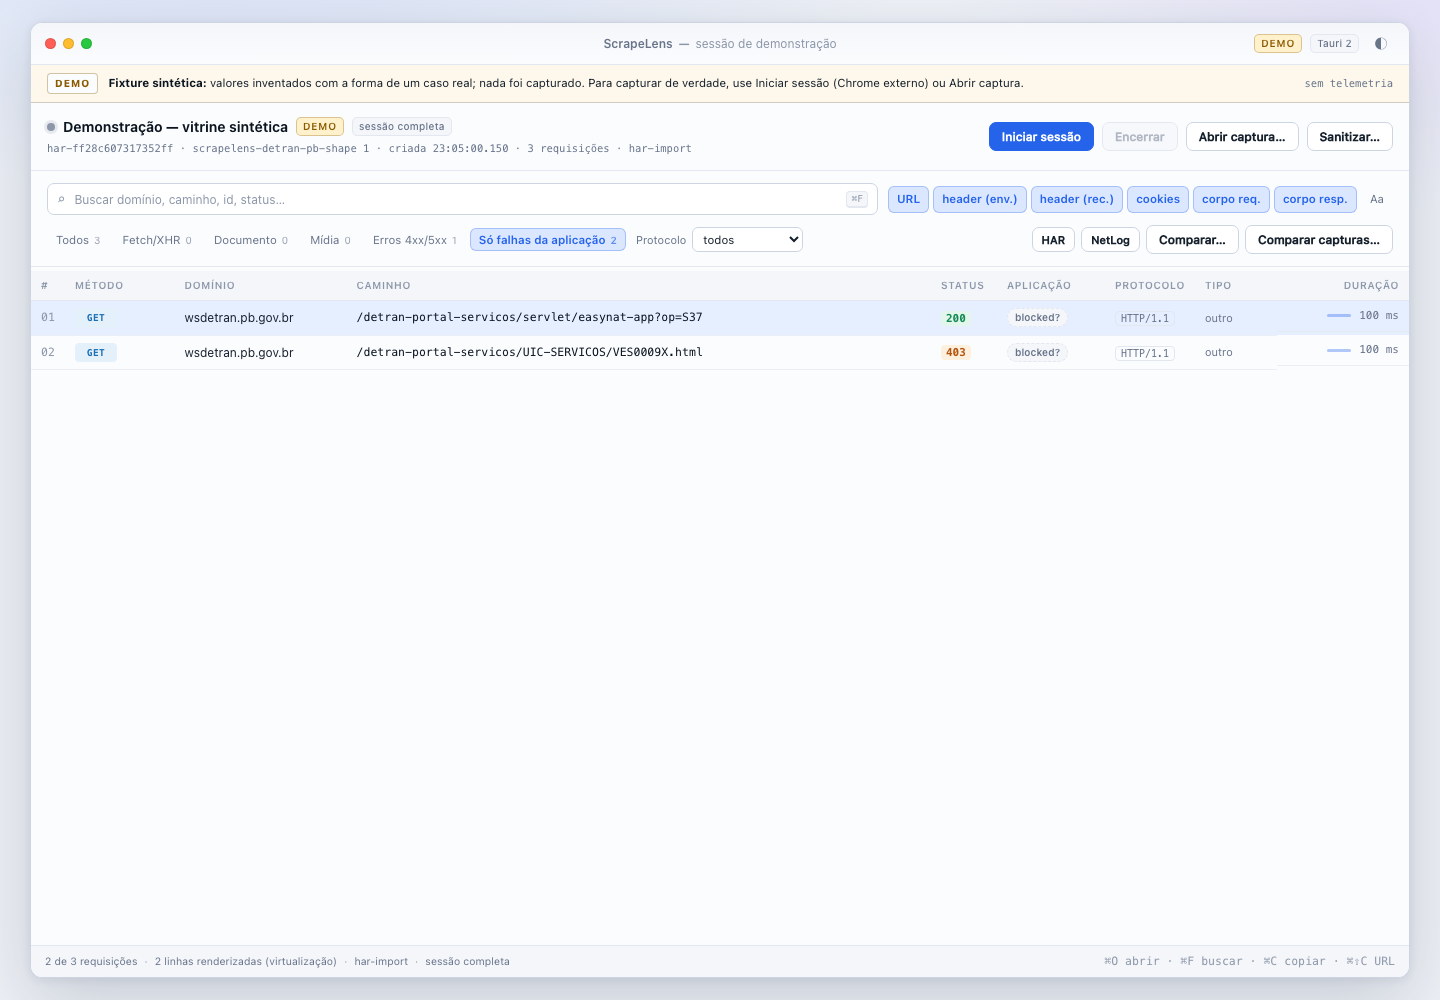
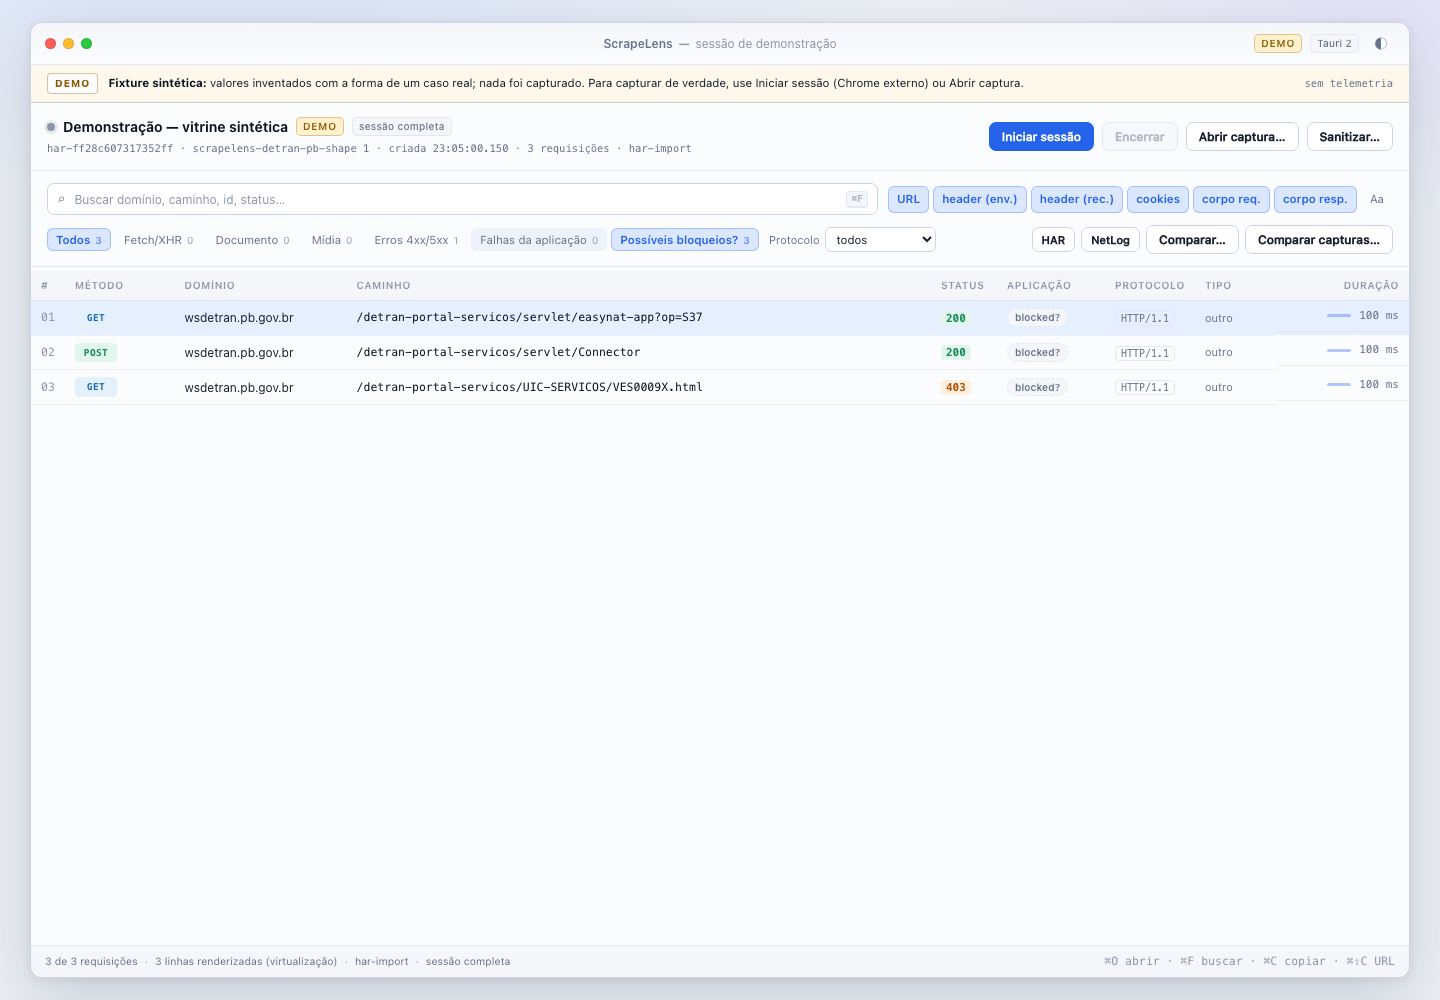
fix(app): separate the Application failures (app-error) and Possible blocks (blocked?) filters

diff --git a/app/src/App.tsx b/app/src/App.tsx
@@ -18,7 +18,7 @@ import { matchRanges } from "./highlight";
 import { classifyTransforms } from "./transforms";
 import { OriginsTab } from "./Origins";
 import { CaptureCompareView } from "./CaptureCompare";
-import { AppSuccessSection, VerdictChip, isAppFailure, useAssess, type OutcomeMap } from "./assess";
+import { AppSuccessSection, VerdictChip, isAppFailure, isPossibleBlock, useAssess, type OutcomeMap } from "./assess";
 import type { CompareSummary } from "./flow";
 import { diffCookies, diffHeaders, kindLabel, normalizeHeaders } from "./diff";
 import { adaptSession, type AdaptedSession } from "./v1/adapter";
@@ -46,7 +46,7 @@ type DetailTab =
   | "redirects"
   | "attempts"
   | "event";
-type TypeFilter = "all" | "fetch" | "document" | "media" | "error" | "appfail";
+type TypeFilter = "all" | "fetch" | "document" | "media" | "error";
 
 const params = new URLSearchParams(window.location.search);
 const storedTheme = typeof localStorage !== "undefined" ? localStorage.getItem("scrapelens.theme") : null;
@@ -1384,6 +1384,8 @@ export default function App() {
   const [query, setQuery] = useState(params.get("q") ?? "");
   const initialFilter = (params.get("filter") as TypeFilter | null) ?? "all";
   const [typeFilter, setTypeFilter] = useState<TypeFilter>(initialFilter);
+  const [failFilter, setFailFilter] = useState(false);
+  const [blockFilter, setBlockFilter] = useState(false);
   const [protocol, setProtocol] = useState<"all" | Protocol>("all");
   const [selectedId, setSelectedId] = useState(params.get("id") ?? "req-0004");
   const [tab, setTab] = useState<DetailTab>(initialTab);
@@ -1456,6 +1458,8 @@ export default function App() {
     setView("session");
     setQuery("");
     setTypeFilter("all");
+    setFailFilter(false);
+    setBlockFilter(false);
     setProtocol("all");
     setSelectedId(payload.session.requests[0]?.id ?? "");
     setIsLargeDemo(false);
@@ -1711,7 +1715,10 @@ export default function App() {
       if (typeFilter === "document" && r.type !== "document") return false;
       if (typeFilter === "media" && !(r.type === "image" || r.type === "font")) return false;
       if (typeFilter === "error" && r.status < 400) return false;
-      if (typeFilter === "appfail" && !isAppFailure(outcomes.get(r.id))) return false;
+      if (failFilter || blockFilter) {
+        const o = outcomes.get(r.id);
+        if (!((failFilter && isAppFailure(o)) || (blockFilter && isPossibleBlock(o)))) return false;
+      }
       if (protocol !== "all" && r.protocol !== protocol) return false;
       if (!q) return true;
       if (payloadSearch) {
@@ -1730,7 +1737,7 @@ export default function App() {
         String(r.status).includes(q)
       );
     });
-  }, [requests, query, typeFilter, protocol, payloadSearch, matchesById, outcomes]);
+  }, [requests, query, typeFilter, failFilter, blockFilter, protocol, payloadSearch, matchesById, outcomes]);
 
   const errors = requests.filter((r) => r.status >= 400).length;
   const counts = {
@@ -1739,8 +1746,9 @@ export default function App() {
     document: requests.filter((r) => r.type === "document").length,
     media: requests.filter((r) => r.type === "image" || r.type === "font").length,
     error: errors,
-    appfail: requests.filter((r) => isAppFailure(outcomes.get(r.id))).length,
   };
+  const failCount = requests.filter((r) => isAppFailure(outcomes.get(r.id))).length;
+  const blockCount = requests.filter((r) => isPossibleBlock(outcomes.get(r.id))).length;
 
   const ROW_HEIGHT = 34;
   const OVERSCAN = 6;
@@ -1760,7 +1768,7 @@ export default function App() {
   useEffect(() => {
     setScrollTop(0);
     if (tableRef.current) tableRef.current.scrollTop = 0;
-  }, [query, typeFilter, protocol]);
+  }, [query, typeFilter, failFilter, blockFilter, protocol]);
 
   const startIndex = Math.max(0, Math.floor(scrollTop / ROW_HEIGHT) - OVERSCAN);
   const endIndex = Math.min(filtered.length, Math.ceil((scrollTop + viewportH) / ROW_HEIGHT) + OVERSCAN);
@@ -2027,7 +2035,6 @@ export default function App() {
                     ["document", "Documento"],
                     ["media", "Mídia"],
                     ["error", "Erros 4xx/5xx"],
-                    ["appfail", "Só falhas da aplicação"],
                   ] as [TypeFilter, string][]
                 ).map(([id, label]) => (
                   <button
@@ -2039,6 +2046,22 @@ export default function App() {
                     <span className="count">{counts[id]}</span>
                   </button>
                 ))}
+                <button
+                  className={failFilter ? "chip-filter active" : "chip-filter"}
+                  onClick={() => setFailFilter((v) => !v)}
+                  title="Respostas com falha da aplicação afirmada (app-error), mesmo com HTTP 200"
+                >
+                  Falhas da aplicação
+                  <span className="count">{failCount}</span>
+                </button>
+                <button
+                  className={blockFilter ? "chip-filter active" : "chip-filter"}
+                  onClick={() => setBlockFilter((v) => !v)}
+                  title="Possíveis bloqueios (blocked?): evidência, não confirmação"
+                >
+                  Possíveis bloqueios?
+                  <span className="count">{blockCount}</span>
+                </button>
               </div>
               <label className="proto-select">
                 <span>Protocolo</span>
@@ -2175,7 +2198,7 @@ export default function App() {
                       <td colSpan={9}>
                         <div className="empty">
                           Nenhuma requisição corresponde a “{query}” com os filtros atuais.
-                          <button className="link" onClick={() => { setQuery(""); setTypeFilter("all"); setProtocol("all"); }}>
+                          <button className="link" onClick={() => { setQuery(""); setTypeFilter("all"); setFailFilter(false); setBlockFilter(false); setProtocol("all"); }}>
                             Limpar busca e filtros
                           </button>
                         </div>

diff --git a/app/scripts/adapter-minimal.test.ts b/app/scripts/adapter-minimal.test.ts
@@ -175,10 +175,15 @@ const withInit = structuredClone(minimal) as any;
 withInit.requests[0].attempts = [{ id: "a", logicalId: "r", index: 0, url: "u", method: "GET", protocol: "h1", initiator: { kind: "parser", url: "https://x.invalid/p" } }];
 assert.equal(adaptSession(withInit).session.requests[0].initiator, "parser · https://x.invalid/p");
 assert.equal(adaptSession(minimal).session.requests[0].initiator, undefined);
-import { isAppFailure, verdictCounts, VERDICT_KINDS, type ResponseOutcome } from "../src/assess";
+import { isAppFailure, isPossibleBlock, verdictCounts, VERDICT_KINDS, type ResponseOutcome } from "../src/assess";
 const oc = (verdictKind: ResponseOutcome["verdictKind"], httpOk = true) => ({ requestId: "r", method: "POST", url: "u", status: 200, httpOk, appSignals: [], verdict: verdictKind, verdictKind, missingFields: [] }) as ResponseOutcome;
 assert.equal(isAppFailure(oc("app-error")), true);
-assert.equal(isAppFailure(oc("blocked")), true); // 200 bloqueado fica visível no filtro
+assert.equal(isAppFailure(oc("blocked")), false); // blocked? não é falha afirmada
+assert.equal(isPossibleBlock(oc("blocked")), true);
+assert.equal(isPossibleBlock(oc("app-error")), false);
+assert.equal(isPossibleBlock(oc("indeterminado")), false);
+assert.equal(isPossibleBlock(oc("not-assessed")), false);
+assert.equal(isPossibleBlock(undefined), false);
 assert.equal(isAppFailure(oc("indeterminado")), false);
 assert.equal(isAppFailure(oc("app-ok")), false);
 assert.equal(isAppFailure(undefined), false);

diff --git a/app/src/assess.tsx b/app/src/assess.tsx
@@ -64,9 +64,11 @@ const CLASS: Record<VerdictKind, string> = {
   "not-assessed": "tag dim",
 };
 
-/** Falha da aplicação = app-error ou blocked? (HTTP pode ter sido 200). */
-export const isAppFailure = (o: ResponseOutcome | undefined) =>
-  o?.verdictKind === "app-error" || o?.verdictKind === "blocked";
+/** Falha da aplicação = app-error (afirmado; HTTP pode ter sido 200). */
+export const isAppFailure = (o: ResponseOutcome | undefined) => o?.verdictKind === "app-error";
+
+/** Possível bloqueio = blocked? (não afirmado). */
+export const isPossibleBlock = (o: ResponseOutcome | undefined) => o?.verdictKind === "blocked";
 
 export function VerdictChip({ outcome }: { outcome: ResponseOutcome | undefined }) {
   if (!outcome) return <span className="dim">—</span>;

diff --git a/src-tauri/EMPACOTAMENTO.md b/src-tauri/EMPACOTAMENTO.md
@@ -48,13 +48,13 @@ Ferramentas usadas: rustc 1.98.1, Node 26.8.1, macOS 26.5.2 (arm64).
 | Arquitetura | `Mach-O 64-bit executable arm64`, thin (sem universal binary) |
 | Tamanho do bundle | 15.768 KiB (~15,4 MiB, `du -sk`) |
 | Tamanho do executável | 15.392.688 bytes |
[2 lines of base64/hex data omitted]
 | Identificador | `app.scrapelens.desktop` |
 | Assinatura | ad-hoc (`flags=0x2(adhoc)`, `TeamIdentifier=not set`) |
 | `codesign --verify --deep --strict` | exit 0 (valid on disk, satisfaz o Designated Requirement) |
 | `spctl -a` | rejeitado — esperado: sem Developer ID e sem notarização |
 
-Rebuild 7b-2 (`counts` do assess com `VerdictKind::count_key()`, chaves kebab-case iguais ao `verdictKind`; hash anterior `83d67718…`). Antes: rebuild do ajuste 7b (verdict `not-assessed` neutro; hash anterior `0f6d04bf…`). Antes: rebuild da onda 7b (comando `assess_session`, coluna/filtro/aba "Aplicação", veredito na cadeia e no compare; hash anterior `4f7ca2aa…`). Antes: rebuild com frames auxiliares e iniciador (hash anterior `1697321d…`). Antes: rebuild da onda 6b (controle HTML, contexto estático, páginas de contexto, avisos de HAR sem cookies, compare por rodadas com opções, sanitização de negócio; hash anterior `f777988f…`). Antes: rebuild da dica de reordenação ligada a `SessionComparison.reordered` (hash anterior `21824159…`). Antes: rebuild do ajuste de layout do compare (chips quebram linha; dica de reordenação opcional); hash anterior `ac7213b2…`. Antes: rebuild com os rótulos do core (possível origem) e fixtures regeneradas; hash anterior `31ec27c3…`. Antes: rebuild das correções da revisão da rodada 5 (possível origem, confiança por passo, comparação paginada, caminhos canônicos, partsCounts; hash anterior `c1783a57…`). Antes: rebuild da onda 5b (aba Origem, cadeia de priming, comparação A × B, exportação com origens anotadas; hash anterior `2f08150d…`). Antes: rebuild do acabamento da rodada 4 (legenda de realce só quando há tracejado, nota discreta para `chrome-decoded`, aviso para `charset:*`/`lossy-postData`); hash anterior `0e2754f4…`. Antes: rebuild com busca preguiçosa do core (LazySession + search_lazy), realce sólido/tracejado e texto da fixture sintética; hash anterior `f9c0acec…`. Antes: rebuild das correções da revisão 4b (rótulos de origem, realce pelo intervalo do core, cache do bundle de busca, recusa de symlink em anexos, `transformed`; hash anterior `56ee754b…`). Antes: rebuild da onda 4b (busca no payload e painel de corpos: commands `search_session` e `read_body`, UI; 28+2 ignorados em src-tauri, 16/16 em tests/exportacao, `npm run test:adapter` ok; evidência em `evidence/busca-corpos/`). Hash anterior `9c04b98b…` substituído. Histórico: rebuild de 0d4dbab (`fix(app)`: adapter tolera campos omitidos que o core aceita via serde default; teste `npm run test:adapter` com a fixture mínima; 15+1 ignorado Tauri, 16/16 regressões tests/exportacao). Hash anterior `5934556c…` (16015a1) substituído. Antes: rebuild com validação de todos os ancestrais do destino (F1/F2): o hash acima é deste build. O SHA-256 é do executável **após** o re-sign ad-hoc. Um `tauri build` limpo
+Rebuild 7c (filtros separados "Falhas da aplicação" = app-error e "Possíveis bloqueios?" = blocked?, combináveis; hash anterior `aa066f1a…`). Antes: rebuild 7b-2 (`counts` do assess com `VerdictKind::count_key()`, chaves kebab-case iguais ao `verdictKind`; hash anterior `83d67718…`). Antes: rebuild do ajuste 7b (verdict `not-assessed` neutro; hash anterior `0f6d04bf…`). Antes: rebuild da onda 7b (comando `assess_session`, coluna/filtro/aba "Aplicação", veredito na cadeia e no compare; hash anterior `4f7ca2aa…`). Antes: rebuild com frames auxiliares e iniciador (hash anterior `1697321d…`). Antes: rebuild da onda 6b (controle HTML, contexto estático, páginas de contexto, avisos de HAR sem cookies, compare por rodadas com opções, sanitização de negócio; hash anterior `f777988f…`). Antes: rebuild da dica de reordenação ligada a `SessionComparison.reordered` (hash anterior `21824159…`). Antes: rebuild do ajuste de layout do compare (chips quebram linha; dica de reordenação opcional); hash anterior `ac7213b2…`. Antes: rebuild com os rótulos do core (possível origem) e fixtures regeneradas; hash anterior `31ec27c3…`. Antes: rebuild das correções da revisão da rodada 5 (possível origem, confiança por passo, comparação paginada, caminhos canônicos, partsCounts; hash anterior `c1783a57…`). Antes: rebuild da onda 5b (aba Origem, cadeia de priming, comparação A × B, exportação com origens anotadas; hash anterior `2f08150d…`). Antes: rebuild do acabamento da rodada 4 (legenda de realce só quando há tracejado, nota discreta para `chrome-decoded`, aviso para `charset:*`/`lossy-postData`); hash anterior `0e2754f4…`. Antes: rebuild com busca preguiçosa do core (LazySession + search_lazy), realce sólido/tracejado e texto da fixture sintética; hash anterior `f9c0acec…`. Antes: rebuild das correções da revisão 4b (rótulos de origem, realce pelo intervalo do core, cache do bundle de busca, recusa de symlink em anexos, `transformed`; hash anterior `56ee754b…`). Antes: rebuild da onda 4b (busca no payload e painel de corpos: commands `search_session` e `read_body`, UI; 28+2 ignorados em src-tauri, 16/16 em tests/exportacao, `npm run test:adapter` ok; evidência em `evidence/busca-corpos/`). Hash anterior `9c04b98b…` substituído. Histórico: rebuild de 0d4dbab (`fix(app)`: adapter tolera campos omitidos que o core aceita via serde default; teste `npm run test:adapter` com a fixture mínima; 15+1 ignorado Tauri, 16/16 regressões tests/exportacao). Hash anterior `5934556c…` (16015a1) substituído. Antes: rebuild com validação de todos os ancestrais do destino (F1/F2): o hash acima é deste build. O SHA-256 é do executável **após** o re-sign ad-hoc. Um `tauri build` limpo
 produz um binário byte-diferente (o linker assina antes do bundle), por isso o
 hash identifica este artefato, não a saída de qualquer build. O build anterior
 desta mesma rodada, sem o ajuste `3a3c676`, tinha
